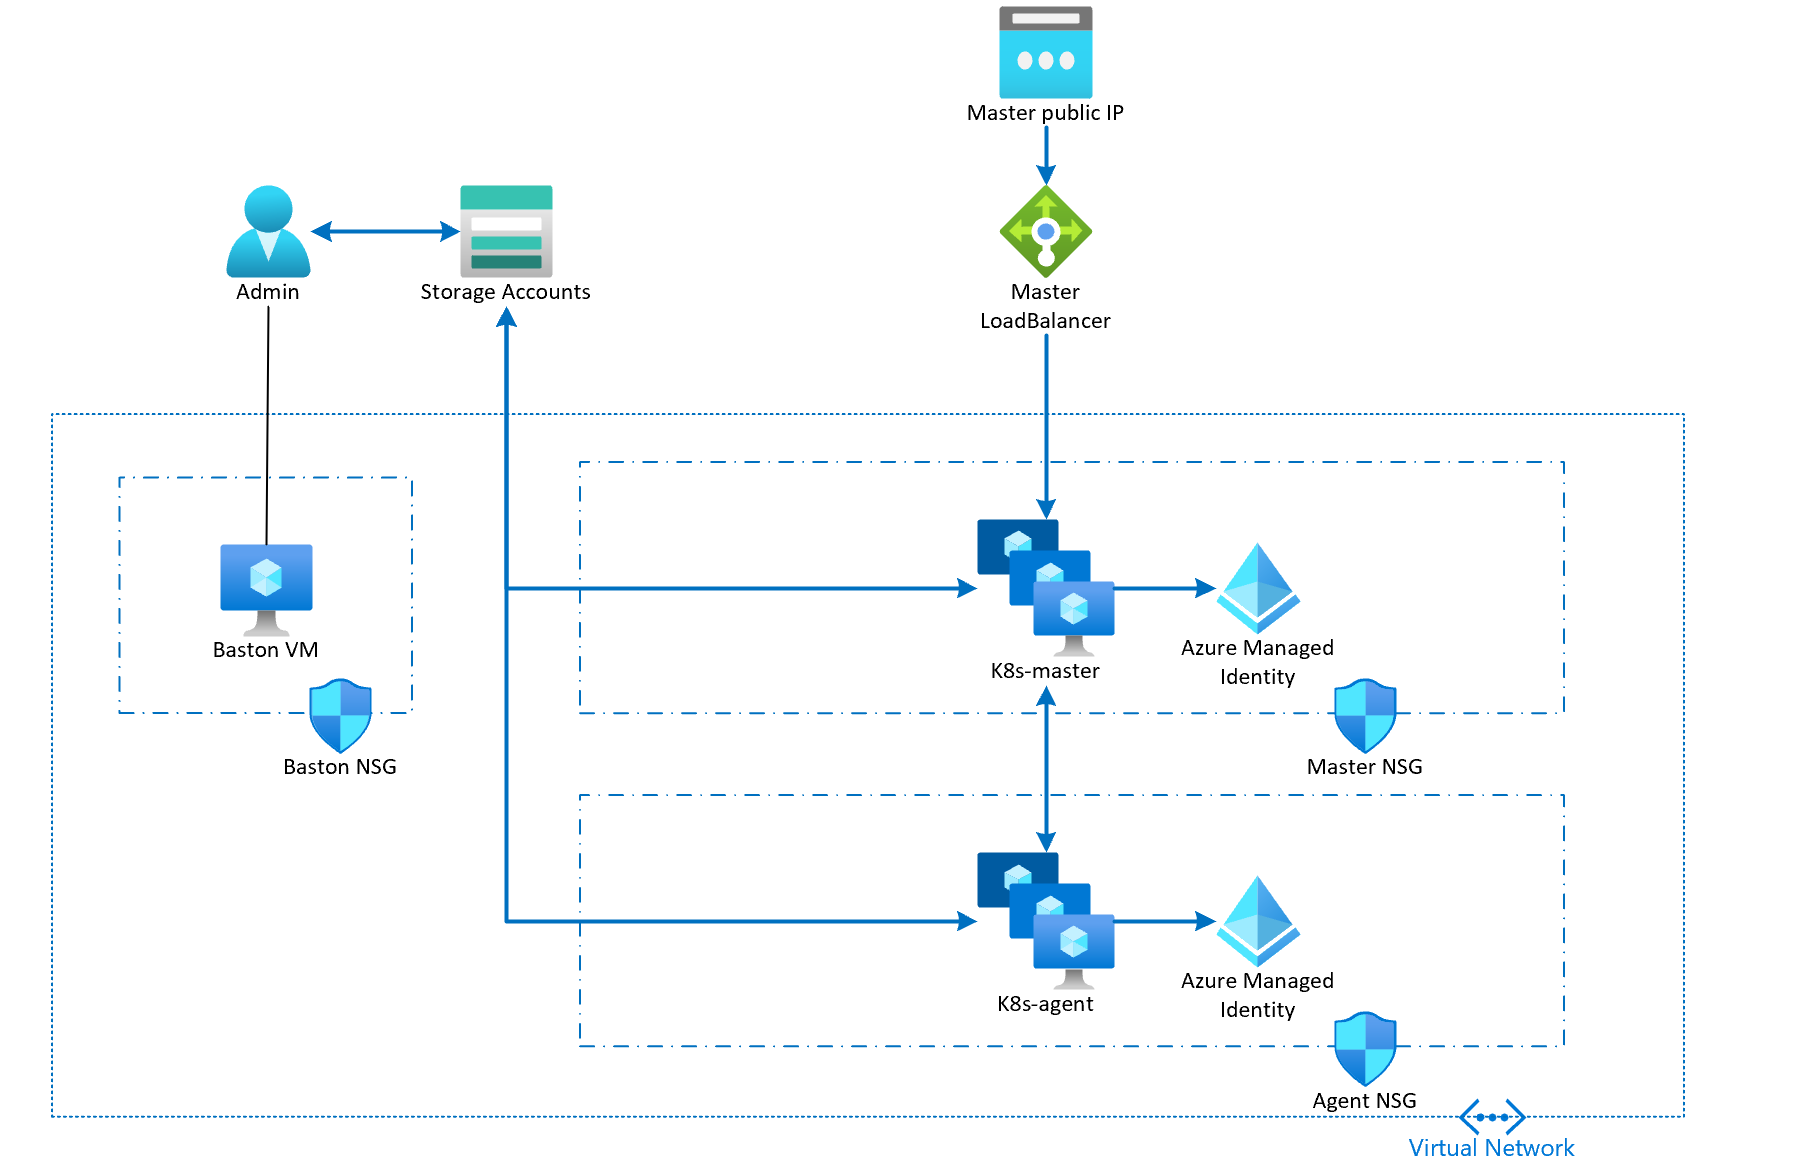
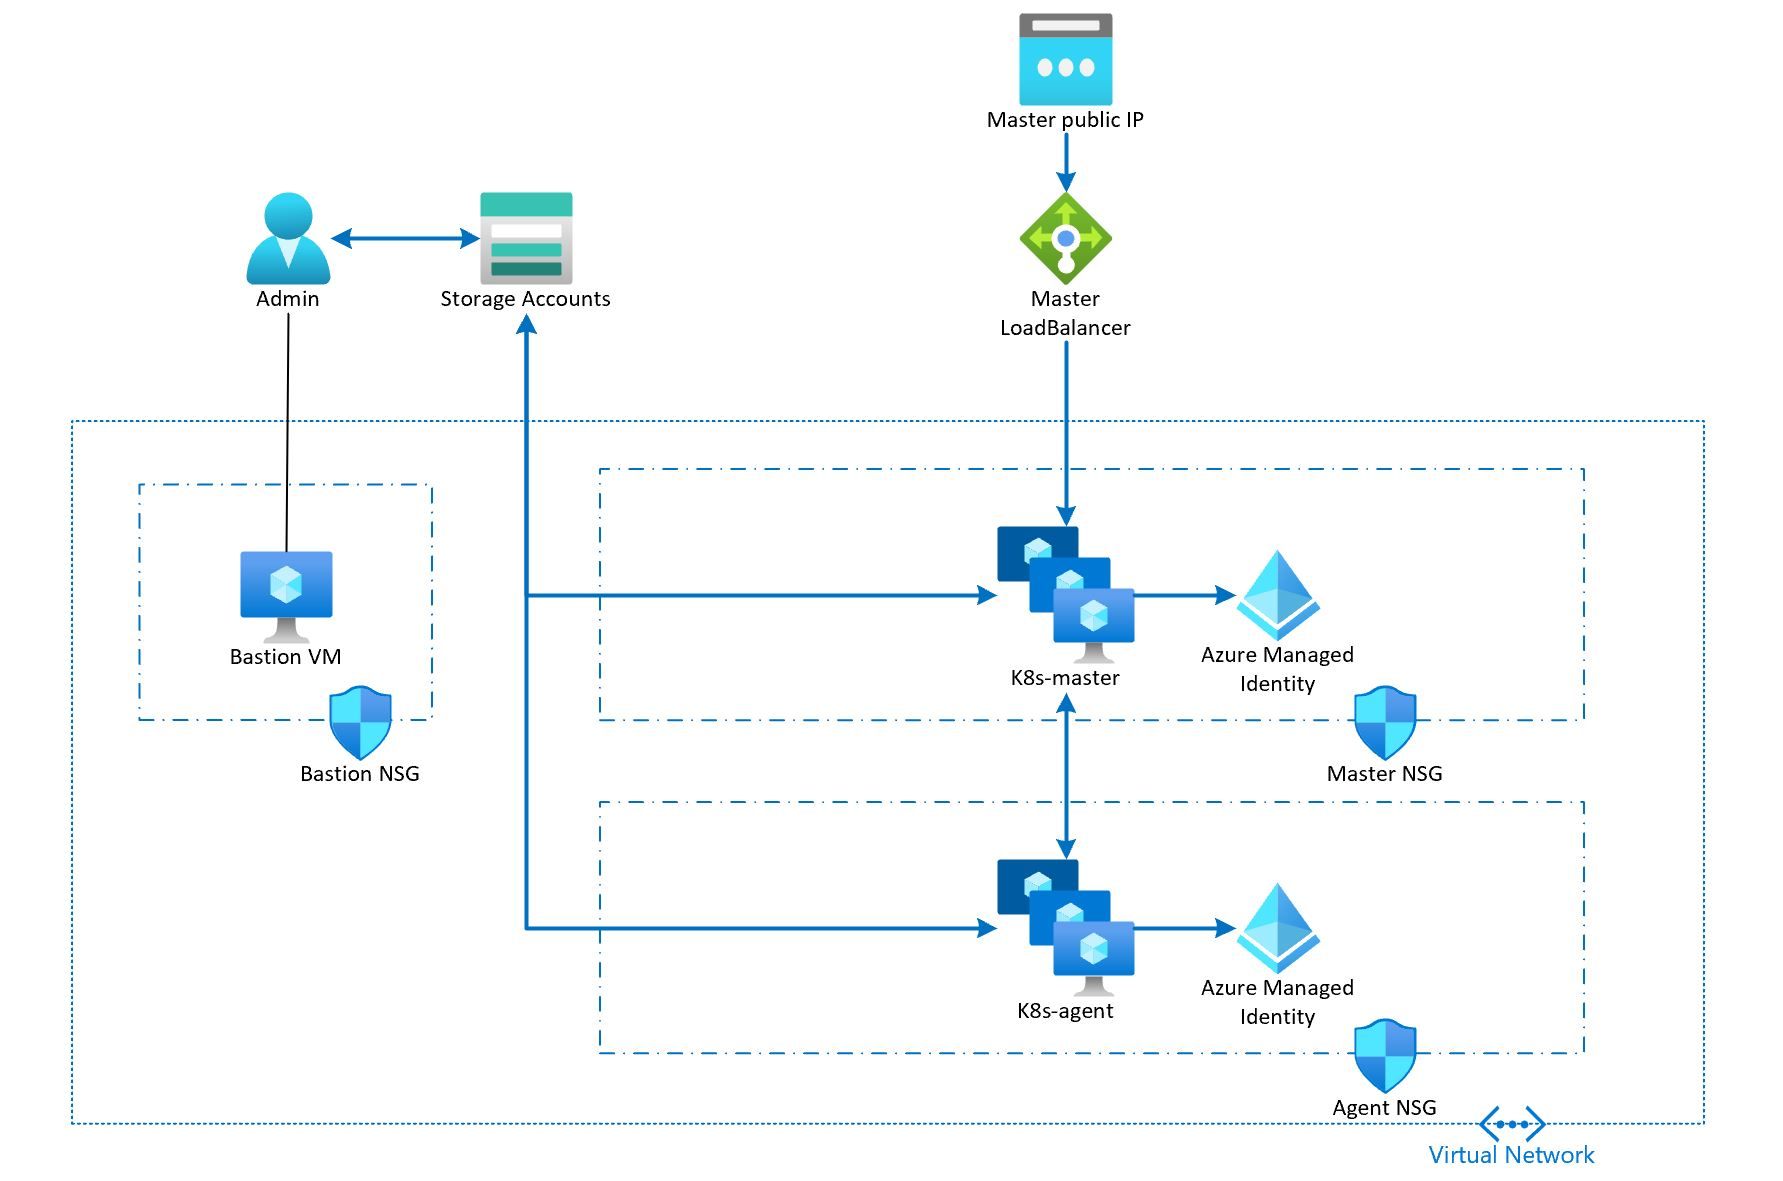
update

diff --git a/README.md b/README.md
@@ -4,13 +4,13 @@ Provision a k8s cluster on Azurew with below:
   - Shared resource:
     - Vnet: k8s-vnet
     - UserAssignedIdentity: k8s-uai
-  - Baston:
-    - Subnet: k8s-baston-subnet
-    - Nsg: k8s-baston-nsg
+  - Bastion:
+    - Subnet: k8s-bastion-subnet
+    - Nsg: k8s-bastion-nsg
       - Allow Inbound port 22 
-    - Nic: k8s-baston-nic
-    - Public IP: k8s-baston-pip
-    - VM: k8s-baston
+    - Nic: k8s-bastion-nic
+    - Public IP: k8s-bastion-pip
+    - VM: k8s-bastion
   - Master:
     - Subnet: k8s-master-subnet
     - Nsg: k8s-master-nsg
